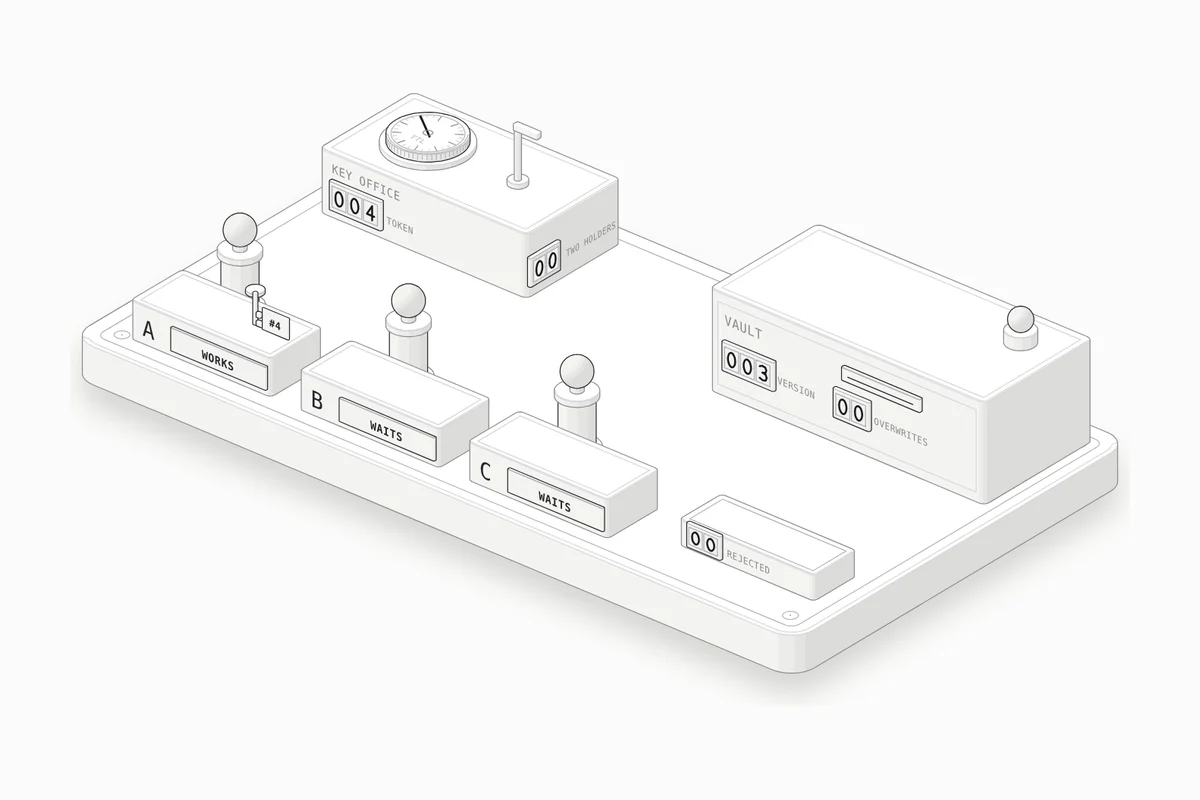
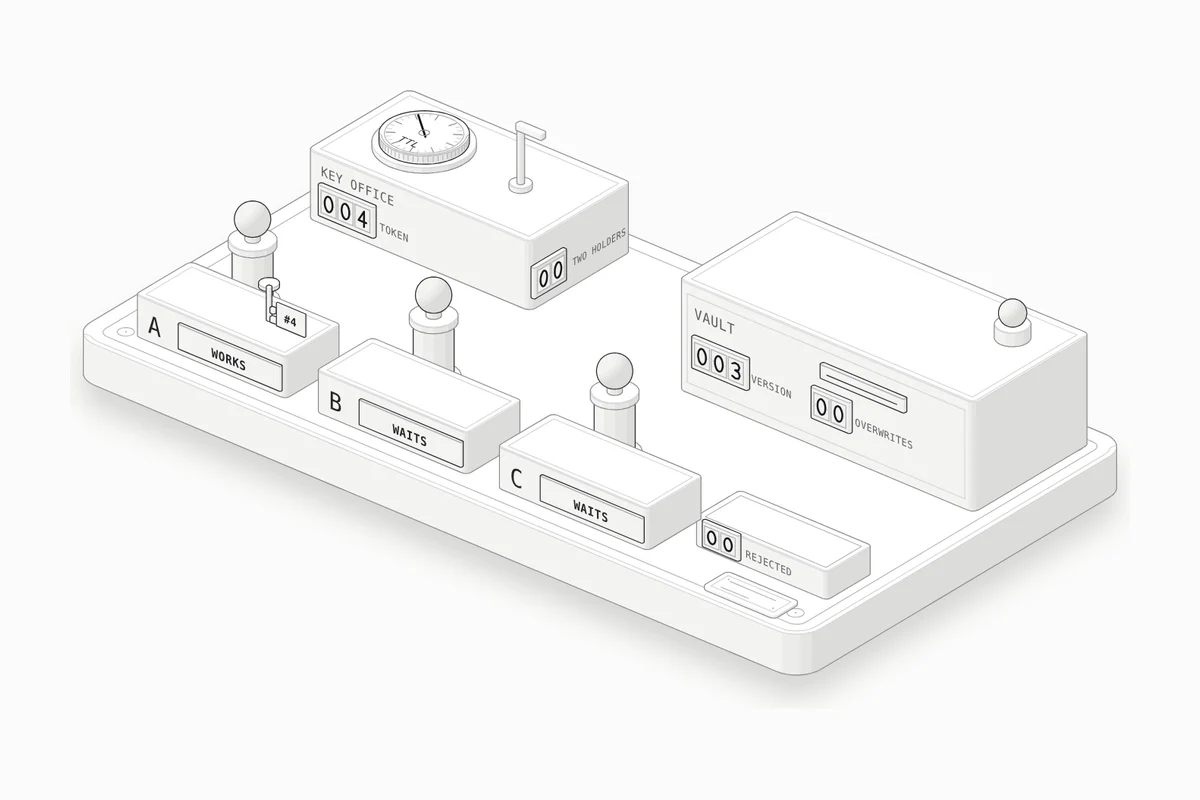
Lesson 62: fix review findings (freeze wording, crashed holder's key stays, smaller base, label plate, Watch timing)
Claude-Session: https://claude.ai/code/session_01S5z2gCvevbrGU3fXgpGDmP

diff --git a/src/lessons/fencing/live.ts b/src/lessons/fencing/live.ts
@@ -1,7 +1,8 @@
 // @ts-nocheck: live code in the style of the other lessons; shared helpers come from src/runtime and src/lib.
 // The key office in the browser: runs the model, flies keys from the office to the desks and slips from the desks to
 // the vault, turns the lease dial, lights a paused worker and a key or slip whose lease has run out, and answers the
-// controls. mount() gets the build-time data from page.ts (projection, geometry, drawings) and root, the <wb-lesson>.
+// controls. "Watch it on the machine" stages the experiment's moment (a frozen or crashed holder) and jumps over the
+// wait for its lease to run out, found by running the same seed ahead. mount() gets the build-time data from page.ts (projection, geometry, drawings) and root, the <wb-lesson>.
 import { translateAlong, depthOf } from "../../../workbench/vendor-anatomy/kit/iso-kit.mjs";
 import * as WB from "../../runtime/wb";
 import { L, T } from "../../runtime/wb";
@@ -44,30 +45,34 @@ export default function mount({ P, G, KEY_SVG, SLIP_SVG, STATUS }, root) {
 
   // ---------- settings and the run ----------
   const cfg = { pauses: "long", ttl: "10", check: "off", fence: "off", crashes: "off", speed: 1 };
-  let model, clock, logAt, from, seed = 5, flashAt = -9, stage2 = null;
+  let model, clock, logAt, from, seed = 5, runSeed = 5, flashAt = -9, stage2 = null;
+  const simCfg = () => ({ pauses: cfg.pauses, ttl: Number(cfg.ttl), check: cfg.check === "on", fence: cfg.fence, crashes: cfg.crashes === "on" });
 
   function restart() {
     for (const r of recs.values()) { r.el.g.remove(); pools[r.el.kind].push(r.el); }
     recs.clear();
-    model = makeSim({ pauses: cfg.pauses, ttl: Number(cfg.ttl), check: cfg.check === "on", fence: cfg.fence, crashes: cfg.crashes === "on" }, seed);
+    runSeed = seed;
+    model = makeSim(simCfg(), seed);
     seed = (seed * 7 + 3) % 9973 + 1;
-    clock = 0; logAt = 0; from = 0; flashAt = -9; held = null; saidAt = -9; saidRank = 0; stage2 = null;
+    clock = 0; logAt = 0; from = 0; flashAt = -9; held = null; saidAt = -9; saidRank = 0; stage2 = null; crashedAt = {};
     show(fencePanel, cfg.fence !== "off");
     paint();
     showStats();
   }
 
   // ---------- narration: the model's log ----------
-  let held = null, saidAt = -9, saidRank = 0;
+  let held = null, saidAt = -9, saidRank = 0, crashedAt = {};
+  // a message stays up at least 1.4 s of page time (3 s for an overwrite or a refusal) unless a more important one
+  // comes; a less important one waits
+  const holdFor = (rank) => (rank >= 4 ? 3 : 1.4);
   function say(rank, text) {
-    // a message stays up at least 1.4 s of page time unless a more important one comes; a less important one waits
     const wall = performance.now() / 1000;
-    if (rank < saidRank && wall - saidAt < 1.4) { held = { rank, text }; return; }
+    if (rank < saidRank && wall - saidAt < holdFor(saidRank)) { held = { rank, text }; return; }
     held = null; saidRank = rank; saidAt = wall;
     root.figure.say(L(text));
   }
   function sayHeld() {
-    if (held && performance.now() / 1000 - saidAt >= 1.4) { const h = held; held = null; saidRank = -1; say(h.rank, h.text); }
+    if (held && performance.now() / 1000 - saidAt >= holdFor(saidRank)) { const h = held; held = null; saidRank = -1; say(h.rank, h.text); }
   }
   function narrate() {
     for (; logAt < model.log.length; logAt++) {
@@ -78,7 +83,7 @@ export default function mount({ P, G, KEY_SVG, SLIP_SVG, STATUS }, root) {
         case "grant": say(1, T("key " + k + " to " + w, "llave " + k + " para " + w)); break;
         case "two": say(4, T("lease #" + e.old.token + " ran out · key " + k + " to " + w + " · " + NAME[e.old.i] + " still paused", "venció el #" + e.old.token + " · llave " + k + " para " + w + " · " + NAME[e.old.i] + " sigue en pausa")); break;
         case "pause":
-          if (e.staged) say(3, T(w + " frozen right after its check · lease #" + e.w.token + " running out", w + " congelado justo después de verificar · el #" + e.w.token + " se agota"));
+          if (e.staged) say(3, frozenText(e.w));
           else if (e.holding && e.d > 2) say(3, T(w + " paused (a long GC) · lease #" + e.w.token + " running out", w + " en pausa (un GC largo) · el #" + e.w.token + " se agota"));
           break;
         case "wake":
@@ -88,12 +93,26 @@ export default function mount({ P, G, KEY_SVG, SLIP_SVG, STATUS }, root) {
         case "over": flashAt = e.t; say(5, T(w + " wrote " + k + " from v" + e.read + ", vault at v" + e.version + " · an update lost", w + " escribió " + k + " desde v" + e.read + ", la bóveda va en v" + e.version + " · se perdió una actualización")); break;
         case "refused": case "readRefused": say(5, T("vault refuses " + k + " from " + w + " · it has seen #" + e.seen, "la bóveda rechaza el " + k + " de " + w + " · ya vio el #" + e.seen)); break;
         case "stopped": say(4, T(w + " checks: lease " + k + " ran out · job dropped", w + " verifica: venció el " + k + " · deja la tarea")); break;
-        case "crash": say(4, T(w + " crashed holding " + k + " · the key waits for the lease to run out", w + " se cayó con el " + k + " · la llave espera a que venza")); break;
-        case "expire": if (e.crashed) say(3, T("lease " + k + " ran out · " + w + " never handed it in", "venció el " + k + " · " + w + " nunca la devolvió")); break;
+        case "crash": crashedAt[e.token] = e.t; say(4, T(w + " crashed holding " + k + " · the key waits for the lease to run out", w + " se cayó con el " + k + " · la llave espera a que venza")); break;
+        case "expire":
+          if (e.crashed) {
+            const idle = crashedAt[e.token] !== undefined ? Math.round(e.t - crashedAt[e.token]) : null;
+            if (idle !== null) say(4, T("lease " + k + " ran out · " + w + " never handed it in · the key sat unused " + idle + " s", "venció el " + k + " · " + w + " nunca la devolvió · la llave quedó sin uso " + idle + " s"));
+            else say(4, T("lease " + k + " ran out · " + w + " never handed it in", "venció el " + k + " · " + w + " nunca la devolvió"));
+          }
+          break;
         case "up": say(1, T(w + " is back", w + " volvió")); break;
       }
     }
     if (logAt > 3000) { model.log.splice(0, logAt); logAt = 0; }
+  }
+
+  // the staged pause comes right after the lease check, or, with the check off, as the write starts
+  function frozenText(wk) {
+    const w = NAME[wk.i], k = "#" + wk.token;
+    return cfg.check === "on"
+      ? T(w + " frozen right after its check · lease " + k + " running out", w + " congelado justo después de verificar · el " + k + " se agota")
+      : T(w + " frozen as it starts its write · lease " + k + " running out", w + " congelado al empezar su escritura · el " + k + " se agota");
   }
 
   // ---------- where a message is ----------
@@ -172,12 +191,15 @@ export default function mount({ P, G, KEY_SVG, SLIP_SVG, STATUS }, root) {
       if (s.pose !== pose) { s.pose = pose; WB.pose(svg, "worker-" + i, pose); }
       const st = w.down ? "down" : isPaused ? "paused" : STATUS_OF[w.phase] || "idle";
       if (s.st !== st) { s.st = st; setText(d.status, L(STATUS[st])); setLit(d.plate, st === "paused"); }
-      const hasKey = !!w.heldToken && w.phase !== "key" && !w.down;
+      // a crashed holder's key stays on its desk until its lease runs out
+      const crashedKey = w.down && !!lease && lease.w === w && lease.crashAt !== null;
+      const hasKey = crashedKey || (!!w.heldToken && w.phase !== "key" && !w.down);
       if (s.key !== hasKey) { s.key = hasKey; show(d.key, hasKey); }
       if (hasKey) {
-        const label = "#" + w.heldToken % 1000;
+        const token = crashedKey ? lease.token : w.heldToken;
+        const label = "#" + token % 1000;
         if (s.label !== label) { s.label = label; setText(d.tagText, label); }
-        const stale = !lease || lease.token !== w.heldToken;
+        const stale = !lease || lease.token !== token;
         if (s.stale !== stale) { s.stale = stale; setLit(d.tag, stale); }
       }
     });
@@ -227,12 +249,15 @@ export default function mount({ P, G, KEY_SVG, SLIP_SVG, STATUS }, root) {
   const wake = () => { if (loop.paused) loop.setPaused(false); };
   function freeze(extra) {
     const w = model.freezeAtWrite(extra);
-    if (w) say(6, T(NAME[w.i] + " will freeze right after its next check", NAME[w.i] + " se congelará justo después de su próxima verificación"));
+    if (!w) return;
+    if (cfg.check === "on") say(6, T(NAME[w.i] + " will freeze right after its next check", NAME[w.i] + " se congelará justo después de su próxima verificación"));
+    else say(6, T(NAME[w.i] + " will freeze as it starts its next write", NAME[w.i] + " se congelará al empezar su próxima escritura"));
   }
   function crashNow() {
     const w = model.crashHolder();
     if (!w) say(6, T("nobody holds the key right now · try again", "nadie tiene la llave ahora · prueba de nuevo"));
     paint(); showStats();
+    return w;
   }
   const actions = {
     freeze: () => { freeze(3); wake(); },
@@ -242,11 +267,52 @@ export default function mount({ P, G, KEY_SVG, SLIP_SVG, STATUS }, root) {
   root.on("action", (name) => actions[name]?.());
 
   // ---------- "Watch it on the machine": an experiment's settings, and the moment it's about ----------
+  // Run the model to T without narrating what happened before it.
+  function jumpTo(T) {
+    if (T <= clock) return;
+    model.runTo(T);
+    clock = T;
+    for (; logAt < model.log.length && model.log[logAt].t <= T; logAt++);
+    paint();
+    showStats();
+  }
+  // When the lease of the worker frozen at t = 0 runs out and the key moves on, found by running the same seed, with
+  // the same freeze, ahead without drawing it.
+  function handover(extra) {
+    const m = makeSim(simCfg(), runSeed);
+    const w = m.freezeAtWrite(extra);
+    for (let T = 1; T <= 120; T += 1) {
+      m.runTo(T);
+      const e = m.log.find((x) => x.type === "two" && x.old === w);
+      if (e) return e.t;
+    }
+    return null;
+  }
   root.on("watch", (w) => {
     for (const key of ["pauses", "ttl", "check", "fence", "crashes"]) set(key, w[key], true);
     restart();
-    if (w.stage === "freeze") freeze(w.extra ?? 3);
-    if (w.stage === "crash") stage2 = { at: 1.2, run: crashNow };
+    if (w.stage === "freeze") {
+      const t = handover(w.extra ?? 3);
+      freeze(w.extra ?? 3);
+      // skip to a little before the frozen holder's lease runs out, so it wakes about 4 s after the press
+      if (t !== null) {
+        jumpTo(Math.max(0, t + (w.extra ?? 3) - 4));
+        const x = model.log.find((e) => e.type === "pause" && e.staged);
+        if (x) say(3, frozenText(x.w));
+      }
+    }
+    if (w.stage === "crash") stage2 = {
+      at: 1.2, run: () => {
+        const x = crashNow();
+        // the crash, then 2 s before the crashed holder's lease runs out
+        if (x) stage2 = { at: clock + 1.6, run: () => {
+          const l = model.lock.lease;
+          if (!l || l.crashAt === null) return;
+          jumpTo(l.expires - 2);
+          say(4, T(NAME[l.w.i] + " crashed holding #" + l.token + " · " + Math.round(l.expires - 2 - l.crashAt) + " s later the key still waits for the lease", NAME[l.w.i] + " se cayó con el #" + l.token + " · " + Math.round(l.expires - 2 - l.crashAt) + " s después la llave sigue esperando a que venza"));
+        } };
+      },
+    };
     wake();
   });
 

diff --git a/src/lessons/fencing/page.ts b/src/lessons/fencing/page.ts
@@ -190,18 +190,18 @@ export default defineLesson({
   lede: t("A lease is a lock with a timer: if the holder stops renewing it, it runs out and the next worker gets the key, so a crashed holder can't block everyone forever. But a holder that only paused doesn't know its lease ran out, and wakes up writing as if it still held it. This lesson turns it into a key office, a vault and three workers: watch a frozen holder wake up and write, predict what stops it, then explain it back.",
     "Un arrendamiento (lease) es un bloqueo (lock) con temporizador: si el dueño deja de renovarlo, vence y el siguiente trabajador recibe la llave, así que un dueño caído no puede bloquear a todos para siempre. Pero un dueño que solo hizo una pausa no sabe que su arrendamiento venció, y despierta escribiendo como si todavía lo tuviera. Esta lección lo convierte en una oficina de llaves, una bóveda y tres trabajadores: mira cómo un dueño congelado despierta y escribe, predice qué lo detiene y después explícalo."),
   machine: {
-    intro: t("Workers A, B and C take turns with the key: read the record at the vault, work on it, write it back, hand the key in. The dial on the key office shows what's left of the lease; the holder renews it as it works. Make the pauses long, freeze the holder right after its check, and try the check, a longer TTL and fencing tokens at the vault.",
-      "Los trabajadores A, B y C se turnan la llave: leen el registro en la bóveda, trabajan con él, lo vuelven a escribir y devuelven la llave. El dial de la oficina de llaves muestra lo que le queda al arrendamiento; el dueño lo renueva mientras trabaja. Alarga las pausas, congela al dueño justo después de verificar y prueba la verificación, un TTL más largo y los tokens de cerco en la bóveda."),
+    intro: t("Workers A, B and C take turns with the key: read the record at the vault, work on it, write it back, hand the key in. The dial on the key office shows what's left of the lease; the holder renews it as it works. Make the pauses long, freeze the holder as it starts its write, and try the check, a longer TTL and fencing tokens at the vault.",
+      "Los trabajadores A, B y C se turnan la llave: leen el registro en la bóveda, trabajan con él, lo vuelven a escribir y devuelven la llave. El dial de la oficina de llaves muestra lo que le queda al arrendamiento; el dueño lo renueva mientras trabaja. Alarga las pausas, congela al dueño al empezar su escritura y prueba la verificación, un TTL más largo y los tokens de cerco en la bóveda."),
     plate: {
       title: t("Key office", "Oficina de llaves"),
       keys: [
-        { mark: "lit", label: t("A paused worker; a key tag or slip whose lease has run out; the vault's lamp when a write overwrites", "Un trabajador en pausa; una etiqueta o un papel cuyo arrendamiento venció; la lámpara de la bóveda cuando una escritura sobrescribe") },
+        { mark: "lit", label: t("A paused worker and its desk's plate; a key tag or slip whose lease has run out; the vault's lamp when a write overwrites", "Un trabajador en pausa y la placa de su escritorio; una etiqueta o un papel cuyo arrendamiento venció; la lámpara de la bóveda cuando una escritura sobrescribe") },
         { mark: "raised", label: t("Keys and slips carry the token: a key flies to its holder's desk, slips fly to the vault", "Llaves y papeles llevan el token: una llave vuela al escritorio de su dueño, los papeles van a la bóveda") },
         { mark: "flat", label: t("Desks at the front, the key office and the vault at the back", "Escritorios adelante, la oficina de llaves y la bóveda al fondo") },
       ],
       caption: t(
-        "The key office grants a lease of TTL seconds (the dial) with a token one higher than the last (TOKEN). The holder renews it every third of the TTL while it runs; a paused worker can't, so its lease can run out under it and the key goes to the next worker in line while the old one still has its key on the desk (TWO HOLDERS). A job: a read slip to the vault and back, " + WORK_RANGE + " of work, then the write, which takes " + UPLOAD_RANGE + " to send. VERSION goes up with every write the vault takes; OVERWRITES counts writes computed from an older version than the one stored, an update lost. With fencing on, the panel on the vault shows the highest token it has seen, and the slips it refuses drop into REJECTED. Times are illustrative and round, and pauses come far more often than in a healthy system.",
-        "La oficina de llaves da un arrendamiento de TTL segundos (el dial) con un token uno más alto que el anterior (TOKEN). El dueño lo renueva cada tercio del TTL mientras corre; un trabajador en pausa no puede, así que su arrendamiento puede vencer sin que lo note y la llave pasa al siguiente en la fila mientras el anterior sigue con su llave en el escritorio (DOS DUEÑOS). Una tarea: un papel de lectura a la bóveda y de vuelta, " + WORK_RANGE + " de trabajo y después la escritura, que tarda " + UPLOAD_RANGE + " en enviarse. VERSIÓN sube con cada escritura que acepta la bóveda; SOBRESCRITURAS cuenta las escrituras calculadas a partir de una versión más vieja que la guardada, una actualización perdida. Con el cerco activado, el panel de la bóveda muestra el token más alto que vio, y los papeles que rechaza caen en RECHAZADAS. Los tiempos son ilustrativos y redondos, y las pausas ocurren mucho más seguido que en un sistema sano.",
+        "Played in real time (change it under Speed). The key office grants a lease of TTL seconds (the dial) with a token one higher than the last (TOKEN). The holder renews it every third of the TTL; a paused worker can't, so its lease can run out and the key move on while the old holder still has its key on the desk (TWO HOLDERS). A job: a read slip to the vault and back, " + WORK_RANGE + " of work, then the write, which takes " + UPLOAD_RANGE + " to send. VERSION goes up with every write the vault takes; OVERWRITES counts writes computed from an older version than the one stored, an update lost. With fencing on, the vault's panel shows the highest token it has seen; slips it refuses drop into REJECTED. Times are illustrative and round, and pauses come far more often than in a healthy system.",
+        "Se reproduce en tiempo real (cámbialo en Velocidad). La oficina de llaves da un arrendamiento de TTL segundos (el dial) con un token uno más alto que el anterior (TOKEN). El dueño lo renueva cada tercio del TTL; un trabajador en pausa no puede, así que su arrendamiento puede vencer y la llave pasar a otro mientras el dueño anterior sigue con su llave en el escritorio (DOS DUEÑOS). Una tarea: un papel de lectura a la bóveda y de vuelta, " + WORK_RANGE + " de trabajo y después la escritura, que tarda " + UPLOAD_RANGE + " en enviarse. VERSIÓN sube con cada escritura que acepta la bóveda; SOBRESCRITURAS cuenta las escrituras calculadas a partir de una versión más vieja que la guardada, una actualización perdida. Con el cerco activado, el panel de la bóveda muestra el token más alto que vio; los papeles que rechaza caen en RECHAZADAS. Los tiempos son ilustrativos y redondos, y las pausas ocurren mucho más seguido que en un sistema sano.",
       ),
       stage: { "data-key-office": "" },
       label: t("Leases and fencing tokens simulation. Space pauses or resumes.", "Simulación de arrendamientos y tokens de cerco. Espacio pausa o reanuda."),
@@ -222,10 +222,10 @@ export default defineLesson({
       { seg: "fence", label: t("Vault checks tokens", "La bóveda verifica tokens"), options: [["off", t("No", "No")], ["writes", t("On writes", "En escrituras")], ["all", t("On every call", "En toda llamada")]], value: "off" },
       { seg: "crashes", label: t("Holder crashes", "Caídas del dueño"), options: [["off", t("Never", "Nunca")], ["on", t("1 job in " + CRASH_EVERY, "1 de cada " + CRASH_EVERY + " tareas")]], value: "off" },
       { speed: true },
-      { actions: [["freeze", t("Freeze the holder", "Congelar al dueño"), { primary: true }], ["crash", t("Crash the holder", "Hacer caer al dueño")], ["reset", t("Start over", "Empezar de nuevo")], ["pause", t("Pause", "Pausa")]], label: t("Do something", "Haz algo") },
+      { actions: [["freeze", t("Freeze the holder", "Congelar al dueño"), { primary: true }], ["crash", t("Crash the holder", "Tumbar al dueño")], ["reset", t("Start over", "Empezar de nuevo")], ["pause", t("Pause", "Pausa")]], label: t("Do something", "Haz algo") },
     ],
-    note: t("Changing a setting starts the run again. Freeze the holder pauses it right after its next check, until its lease has run out and 3 s more. Pauses strike each worker every " + PAUSE_EVERY + " s on average; with Some long, one in " + LONG_EVERY + " lasts " + LONG_RANGE + ".",
-      "Cambiar un ajuste reinicia la ejecución. Congelar al dueño lo pausa justo después de su próxima verificación, hasta que vence su arrendamiento y 3 s más. Las pausas le llegan a cada trabajador cada " + PAUSE_EVERY + " s en promedio; con Algunas largas, una de cada " + LONG_EVERY + " dura " + LONG_RANGE + "."),
+    note: t("Changing a setting starts the run again. Freeze the holder pauses it as it starts its next write (right after its check, when the check is on), until its lease has run out and 3 s more. Pauses strike each worker every " + PAUSE_EVERY + " s on average; with Some long, one in " + LONG_EVERY + " lasts " + LONG_RANGE + ".",
+      "Cambiar un ajuste reinicia la ejecución. Congelar al dueño lo pausa al empezar su próxima escritura (justo después de verificar, si la verificación está activa), hasta que vence su arrendamiento y 3 s más. Las pausas le llegan a cada trabajador cada " + PAUSE_EVERY + " s en promedio; con Algunas largas, una de cada " + LONG_EVERY + " dura " + LONG_RANGE + "."),
   },
   predict: { intro: t("Each experiment changes one thing. Choose what you expect <em>before</em> running it. Results come from the same model as the machine, averaged over eight seeded runs of an hour each.",
     "Cada experimento cambia una sola cosa. Elige lo que esperas <em>antes</em> de ejecutarlo. Los resultados salen del mismo modelo que la máquina, promediados sobre ocho ejecuciones con semilla fija de una hora cada una."), experiments: withResults(EXPERIMENTS, RUNS) },

diff --git a/src/lessons/fencing/figure.ts b/src/lessons/fencing/figure.ts
@@ -6,39 +6,39 @@
 // has seen; slips it refuses drop into the REJECTED tray. Every number is a counter on a real object.
 // Built with the Anatomy kit (MIT, github.com/wheresryan22/anatomy) and the shared workbench parts.
 import * as k from "../../../workbench/kit.mjs";
-import { basePlate, digitCounter, person, keyPart, dial, card, lamp, faceText, variants, litFill } from "../../../workbench/parts.mjs";
+import { basePlate, labelPlate, digitCounter, person, keyPart, dial, card, lamp, faceText, variants, litFill } from "../../../workbench/parts.mjs";
 import { t } from "../../../workbench/i18n.mjs";
 import { shorthand } from "../../lib/draw";
 
 export const WIDTH = 700;
 export const HEIGHT = 470;
 
-const PLATE = { x: -132, y: -102, w: 258, d: 142, r: 8 };
+const PLATE = { x: -132, y: -90, w: 242, d: 130, r: 8 };
 const PLATE_H = 12, FOOT_H = 5;
 
 // The key office (the lock service), back left.
-const KO = { x: -124, y: -96, w: 74, d: 40, r: 2 };
+const KO = { x: -124, y: -84, w: 74, d: 40, r: 2 };
 const KO_H = 20;
 const KO_FRONT = KO.y + KO.d;
 const KO_SIDE = KO.x + KO.w;
-const DIAL = { x: -102, y: -76, r: 11.5, h: 4 };
-const HOOK = [-70, -76];
+const DIAL = { x: -102, y: -64, r: 11.5, h: 4 };
+const HOOK = [-70, -64];
 export const HOOK_KEY = [HOOK[0] + 6.6, HOOK[1], KO_H + 10];
 export const KEY_OUT = [-80, KO_FRONT + 2, KO_H + 2];          // where a key leaves the office
 
 // The vault (the storage), back right.
-const VAULT = { x: 20, y: -96, w: 98, d: 46, r: 2 };
+const VAULT = { x: 4, y: -84, w: 98, d: 46, r: 2 };
 const VAULT_H = 32;
 const VAULT_FRONT = VAULT.y + VAULT.d;
-const SLOT = { x: 68, w: 28, z: 21.6, h: 4 };
+const SLOT = { x: VAULT.x + 48, w: 28, z: 21.6, h: 4 };
 export const SLOT_AT = [SLOT.x + SLOT.w / 2, VAULT_FRONT + 1.6, SLOT.z + 1.2];
-const FENCE = { x: 26, y: -90, w: 50, d: 13, r: 1 };
+const FENCE = { x: VAULT.x + 6, y: VAULT.y + 6, w: 50, d: 13, r: 1 };
 const FENCE_H = 9;
 const FENCE_FRONT = FENCE.y + FENCE.d;
-const LAMP_AT = [104, -82, VAULT_H];
+const LAMP_AT = [VAULT.x + 84, VAULT.y + 14, VAULT_H];
 
 // The REJECTED tray, in front of the vault.
-const TRAY = { x: 68, y: 2, w: 48, d: 18, r: 1.4 };
+const TRAY = { x: 58, y: 2, w: 44, d: 18, r: 1.4 };
 const TRAY_H = 8;
 export const TRAY_SPOT = [TRAY.x + TRAY.w / 2, TRAY.y + TRAY.d / 2, TRAY_H - 1];
 
@@ -65,7 +65,8 @@ const counter = (o) => digitCounter(P, { w: 5, h: 6.6, gap: 0.6, pad: 1.2, ...o 
 const LABEL = 3;
 
 function plate() {
-  return basePlate(P, PLATE, { height: PLATE_H, foot: FOOT_H });
+  return basePlate(P, PLATE, { height: PLATE_H, foot: FOOT_H })
+    + labelPlate(P, { x: 74, y: 26, w: 24, d: 10, r: 1.4 }, [[78, 29.6, 15], [78, 33.2, 9]]);
 }
 
 // ---------- the key office ----------
@@ -79,7 +80,8 @@ function keyOffice() {
   out.push(counter({ x: KO_SIDE, y: KO_FRONT - 2.8, z: 4, count: 2, face: "x", name: "two" }));
   out.push(faceText(P, [KO_SIDE, KO_FRONT - 16.6, 5.8], t("TWO HOLDERS", "DOS DUEÑOS"), { face: "x", size: LABEL, tone: "mid" }));
   // the lease timer: the needle shows what's left of the current lease
-  out.push(dial(P, { x: DIAL.x, y: DIAL.y, z: KO_H, r: DIAL.r, h: DIAL.h, ticks: 27, every: 3, from: Math.PI * 0.1, span: Math.PI * 1.8, name: "ttl", value: 0, label: "TTL" }));
+  out.push(dial(P, { x: DIAL.x, y: DIAL.y, z: KO_H, r: DIAL.r, h: DIAL.h, ticks: 27, every: 3, from: Math.PI * 0.1, span: Math.PI * 1.8, name: "ttl", value: 0 }));
+  out.push(faceText(P, [DIAL.x, DIAL.y + DIAL.r * 0.62, KO_H + DIAL.h + 0.1], "TTL", { face: "top", size: 3.4, tone: "hi", anchor: "middle" }));
   // the hook the free key hangs on
   const [hx, hy] = HOOK;
   out.push(S(k.cylinder(hx, hy, 3, KO_H, 1.4, P, 20, 0.3), { tone: "mid" }));
@@ -113,8 +115,7 @@ function fencePanel() {
   const out = [`<g data-fence style="display:none">`];
   out.push(S(k.slabOf(FENCE, VAULT_H, FENCE_H, P, 3, 0.4), { tone: "mid" }));
   out.push(counter({ x: FENCE.x + 3.4, y: FENCE_FRONT, z: VAULT_H + 1.4, count: 3, w: 4.6, h: 5.8, pad: 1, name: "seen" }));
-  out.push(text(FENCE.x + 21.6, FENCE_FRONT, VAULT_H + 3, t("HIGHEST", "MÁXIMO"), LABEL));
-  out.push(faceText(P, [FENCE.x + FENCE.w / 2, FENCE.y + FENCE.d / 2 + 1.2, VAULT_H + FENCE_H], "TOKEN", { face: "top", size: 3.4, tone: "mid", anchor: "middle" }));
+  out.push(text(FENCE.x + 20.6, FENCE_FRONT, VAULT_H + 3, t("HIGHEST TOKEN", "TOKEN MÁXIMO"), LABEL));
   out.push(`</g>`);
   return out.join("");
 }
@@ -138,7 +139,7 @@ function desk(i) {
   const sp = { x: cx - 10, y: DESK_FRONT, w: 34, d: 1, r: 0.3 };
   out.push(`<g class="wb-lit-group" data-status-plate="${i}">`
     + S(k.slabOf(sp, 2.2, 7.2, P, 2, 0.2), { tone: "hi", crease: "lo" })
-    + faceText(P, [sp.x + sp.w / 2, sp.y + sp.d, 4], t("IDLE", "LIBRE").en, { size: 3.6, tone: "hi", anchor: "middle", attr: `data-status="${i}"` })
+    + faceText(P, [sp.x + sp.w / 2, sp.y + sp.d, 4], t("IDLE", "LIBRE"), { size: 3.6, tone: "hi", anchor: "middle", attr: `data-status="${i}"` })
     + `</g>`);
   return out.join("");
 }
@@ -168,8 +169,8 @@ export function buildFigure() {
     width: WIDTH,
     height: HEIGHT,
     label: t(
-      "A key office, a vault and three desks on a base plate. At the back left, the key office, the lock service, hands out one key at a time. A dial on its top shows how much of the current lease is left, a hook holds the key while nobody has it, and counters show the last token handed out and how many times the key went to a new holder while the old one, paused, still thought it had it. At the back right, the vault, the storage, keeps the record: counters show its version and the writes that overwrote an update they never saw, and a lamp flashes when that happens. When fencing is on, a panel on its top shows the highest token it has seen. Beside it, a tray collects the slips it refuses. At the front, workers A, B and C sit at their desks; a plate on each desk says what the worker is doing, and the worker lights up while it's paused. A key with a numbered tag sits on the desk of each worker that believes it holds the lease; the tag lights when that lease has run out. Slips with the key's number fly from the holder's desk to the vault's slot: a read, then a write.",
-      "Una oficina de llaves, una bóveda y tres escritorios sobre una placa base. Al fondo a la izquierda, la oficina de llaves, el servicio de bloqueo, entrega una llave a la vez. Un dial arriba muestra cuánto le queda al arrendamiento actual, un gancho sostiene la llave mientras nadie la tiene, y unos contadores muestran el último token entregado y cuántas veces la llave pasó a un dueño nuevo mientras el anterior, en pausa, seguía creyendo que la tenía. Al fondo a la derecha, la bóveda, el almacenamiento, guarda el registro: unos contadores muestran su versión y las escrituras que sobrescribieron una actualización que nunca vieron, y una lámpara se enciende cuando eso pasa. Con el cerco activado, un panel arriba muestra el token más alto que vio. Al lado, una bandeja recoge los papeles que rechaza. Adelante, los trabajadores A, B y C están en sus escritorios; una placa en cada escritorio dice qué hace el trabajador, y el trabajador se enciende mientras está en pausa. Una llave con una etiqueta numerada está sobre el escritorio de cada trabajador que cree tener el arrendamiento; la etiqueta se enciende cuando ese arrendamiento ya venció. Papeles con el número de la llave vuelan del escritorio del dueño a la ranura de la bóveda: una lectura y después una escritura.",
+      "A key office, a vault and three desks on a base plate. At the back left, the key office, the lock service, hands out one key at a time. A dial on its top shows how much of the current lease is left, a hook holds the key while nobody has it, and counters show the last token handed out and how many times the key went to a new holder while the old one, paused, still thought it had it. At the back right, the vault, the storage, keeps the record: counters show its version and the writes that overwrote an update they never saw, and a lamp flashes when that happens. When fencing is on, a panel on its top shows the highest token it has seen. In front of it, a tray collects the slips it refuses. At the front, workers A, B and C sit at their desks; a plate on each desk says what the worker is doing, and the worker and its plate light up while it's paused. A key with a numbered tag sits on the desk of each worker that believes it holds the lease, and on a crashed holder's desk until its lease runs out; the tag lights when that lease has run out. Slips with the key's number fly from the holder's desk to the vault's slot: a read, then a write.",
+      "Una oficina de llaves, una bóveda y tres escritorios sobre una placa base. Al fondo a la izquierda, la oficina de llaves, el servicio de bloqueo, entrega una llave a la vez. Un dial arriba muestra cuánto le queda al arrendamiento actual, un gancho sostiene la llave mientras nadie la tiene, y unos contadores muestran el último token entregado y cuántas veces la llave pasó a un dueño nuevo mientras el anterior, en pausa, seguía creyendo que la tenía. Al fondo a la derecha, la bóveda, el almacenamiento, guarda el registro: unos contadores muestran su versión y las escrituras que sobrescribieron una actualización que nunca vieron, y una lámpara se enciende cuando eso pasa. Con el cerco activado, un panel arriba muestra el token más alto que vio. Delante, una bandeja recoge los papeles que rechaza. Adelante, los trabajadores A, B y C están en sus escritorios; una placa en cada escritorio dice qué hace el trabajador, y el trabajador y su placa se encienden mientras está en pausa. Una llave con una etiqueta numerada está sobre el escritorio de cada trabajador que cree tener el arrendamiento, y sobre el de un dueño caído hasta que vence su arrendamiento; la etiqueta se enciende cuando ese arrendamiento ya venció. Papeles con el número de la llave vuelan del escritorio del dueño a la ranura de la bóveda: una lectura y después una escritura.",
     ),
     body: [
       plate(),

diff --git a/src/lessons/fencing/sim.ts b/src/lessons/fencing/sim.ts
@@ -163,7 +163,8 @@ export function makeSim(cfgIn = {}, seed = 1) {
         schedule(w, t + u);
         log.push({ t, type: "write", w, token: w.token, checked: cfg.check });
         if (w.freezeNext) {
-          // a staged pause, right after the check: it lasts until the lease has run out, and a little more
+          // a staged pause as the write starts (right after the check, when the check is on): it lasts until the
+          // lease has run out, and a little more
           const extra = w.freezeNext.extra; w.freezeNext = null;
           const left = holds(w) ? lock.lease.expires - t : 0;
           pause(t, w, Math.max(0.5, left + extra), true);
@@ -280,8 +281,9 @@ export function makeSim(cfgIn = {}, seed = 1) {
   return {
     cfg, lock, vault, st, workers, log, msgs, runTo,
     get now() { return now; },
-    /** Pause the holder (or the next worker to get the key) right after its next check, until its lease has run out
-     *  and a little longer: the staged version of the pause the lesson is about. */
+    /** Pause the holder (or the next worker to get the key) as its next write starts, right after its check when the
+     *  check is on, until its lease has run out and a little longer: the staged version of the pause the lesson is
+     *  about. */
     freezeAtWrite(extra = 1) {
       const w = lock.lease ? lock.lease.w : lock.queue[0] || workers[0];
       if (w && !w.down) w.freezeNext = { extra };
